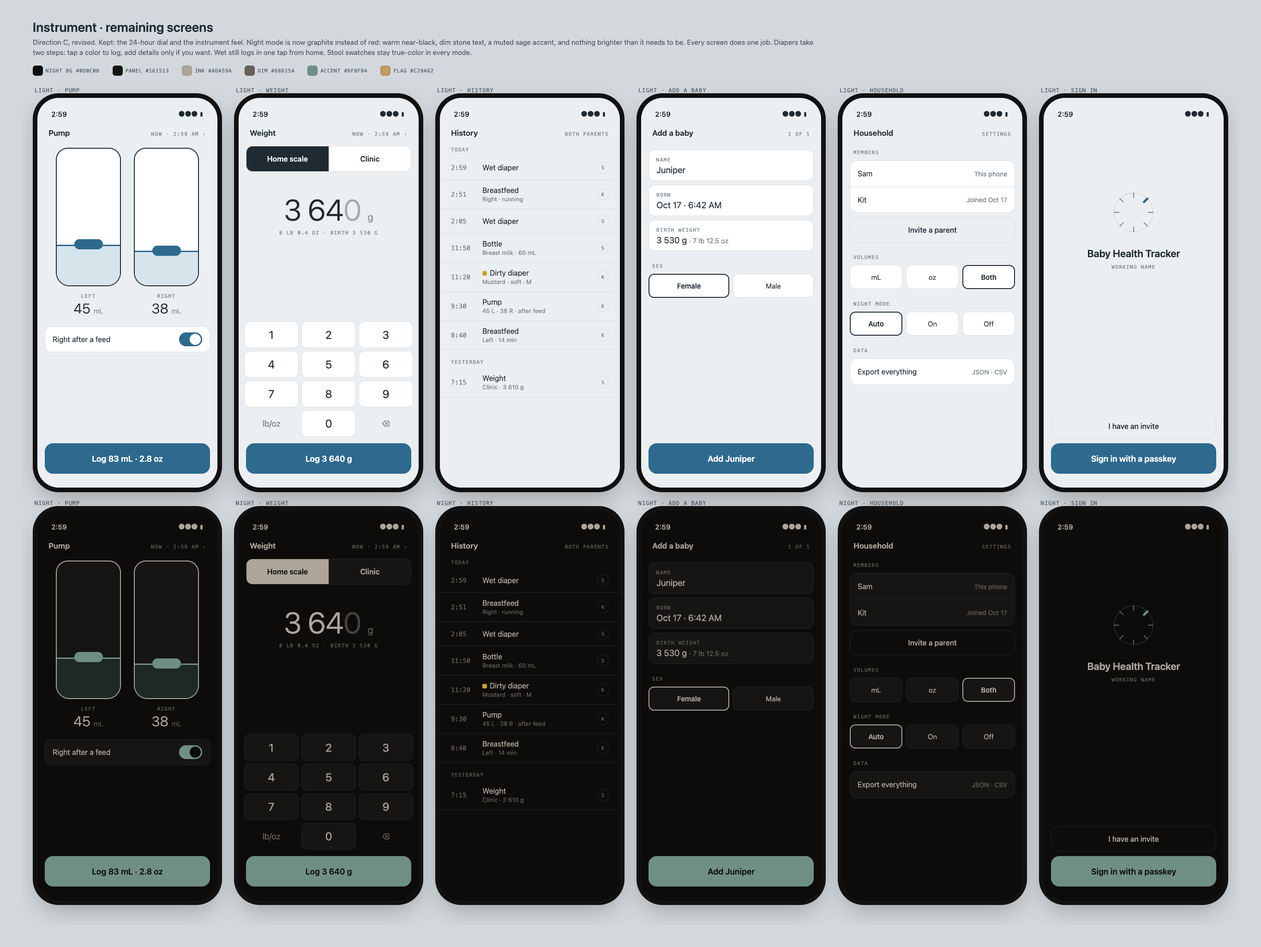
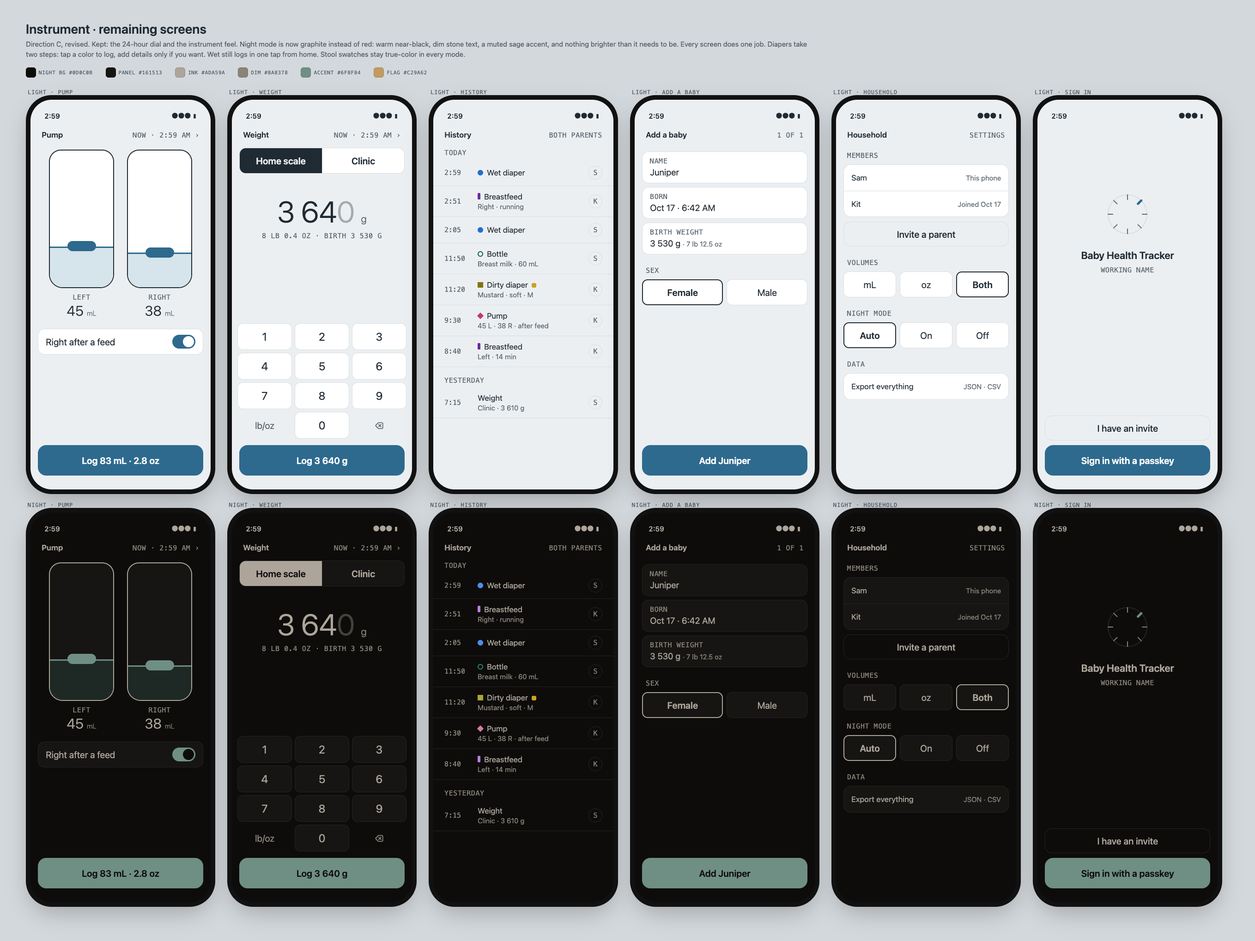
docs/design: glanceable Home, event colours and type sizes (#20)
- Each event type gets a saturated colour and its own shape (feed bar,
  bottle ring, wet dot, dirty square, pump diamond) on the dial, the
  legend, the quick-log keys and History. Night colours stay under the
  night ink's luminance and are never fills.
- Quick-log keys: coloured outlines, time since the last log, and the
  last side for Feed and Pump. Feed is the tall key; Wet is still 1 tap.
- App-wide type floor: buttons 20 px, body 17 px, secondary 15 px.
- dim raised to pass 4.5:1 for text (was 3.84 light, 3.03 night).
- Hand-computed contrast and a deuteranopia board (?cvd=deut).

diff --git a/docs/design/direction.html b/docs/design/direction.html
@@ -14,11 +14,11 @@ body{background:#D3D8DC;font-family:-apple-system,system-ui,sans-serif;padding:4
 .phone{width:390px;height:844px;border-radius:46px;overflow:hidden;position:relative;box-shadow:0 0 0 10px #111,0 20px 50px rgba(0,0,0,.25);margin:10px;background:var(--bg);color:var(--ink)}
 
 /* Tokens. Light is unchanged from C. Night is "graphite": warm near-black, dim stone ink, muted sage accent. No red. */
-.light{--bg:#ECEFF1;--panel:#FFFFFF;--ink:#1F2A33;--dim:#77848E;--line:#D9DEE2;--acc:#2E6A8E;--accInk:#FFFFFF;--band:#D6E4EC;--flag:#A8552F;--flagSoft:#F7EBE3;--well:#FFFFFF}
-.night{--bg:#0D0C0B;--panel:#161513;--ink:#ADA59A;--dim:#68625A;--line:#252320;--acc:#6F8F84;--accInk:#0D0C0B;--band:#1E2925;--flag:#C29A62;--flagSoft:#1B1712;--well:#1C1A17}
+.light{--feed:#6E2A9C;--bottle:#08664C;--wet:#1F6FD6;--dirty:#7F7410;--pump:#C2367A;--bg:#ECEFF1;--panel:#FFFFFF;--ink:#1F2A33;--dim:#5B6670;--line:#D9DEE2;--acc:#2E6A8E;--accInk:#FFFFFF;--band:#D6E4EC;--flag:#A8552F;--flagSoft:#F7EBE3;--well:#FFFFFF}
+.night{--feed:#B880D8;--bottle:#25876B;--wet:#4C8EF0;--dirty:#ABA53A;--pump:#DA7AA0;--bg:#0D0C0B;--panel:#161513;--ink:#ADA59A;--dim:#8A8378;--line:#252320;--acc:#6F8F84;--accInk:#0D0C0B;--band:#1E2925;--flag:#C29A62;--flagSoft:#1B1712;--well:#1C1A17}
 
 .sb{height:50px;display:flex;justify-content:space-between;align-items:flex-end;padding:0 30px 6px;font:600 15px -apple-system,system-ui,sans-serif}
-.lab{font:500 11px ui-monospace,Menlo,monospace;letter-spacing:.12em;text-transform:uppercase;color:var(--dim)}
+.lab{font:500 15px ui-monospace,Menlo,monospace;letter-spacing:.04em;text-transform:uppercase;color:var(--dim)}
 .top{display:flex;justify-content:space-between;align-items:baseline;padding:16px 24px 0}
 .top b{font:600 17px -apple-system,system-ui,sans-serif}
 .num{font-variant-numeric:tabular-nums}
@@ -28,32 +28,43 @@ body{background:#D3D8DC;font-family:-apple-system,system-ui,sans-serif;padding:4
 .dial svg{position:absolute;inset:0}
 .center{position:absolute;inset:0;display:flex;flex-direction:column;align-items:center;justify-content:center}
 .center .v{font:300 60px/1 -apple-system,system-ui,sans-serif;letter-spacing:-.02em;font-variant-numeric:tabular-nums;margin:8px 0}
-.legend{display:flex;justify-content:center;gap:18px;margin-top:16px}
-.legend span{display:flex;align-items:center;gap:6px}
-.legend i{width:8px;height:8px;border-radius:50%;display:inline-block}
-.quiet{text-align:center;margin-top:18px;font-size:14px;color:var(--dim)}
+.legend{display:flex;justify-content:center;gap:18px;margin-top:14px;font:400 15px -apple-system,system-ui,sans-serif;color:var(--dim)}
+.legend b{color:var(--ink);font-weight:600;font-variant-numeric:tabular-nums}
+.legend span{display:flex;align-items:center;gap:6px;white-space:nowrap}
+.legend i{width:12px;height:12px;display:inline-block}
+.quiet{text-align:center;margin-top:18px;font-size:17px;color:var(--dim)}
 .quiet b{color:var(--ink);font-weight:500}
-.chips{position:absolute;left:12px;right:12px;bottom:166px;display:flex;gap:6px}
-.chips div{flex:1;height:40px;border-radius:12px;border:1px solid var(--line);display:flex;align-items:center;justify-content:center;font-size:14px;color:var(--dim)}
-.rail{position:absolute;left:0;right:0;bottom:0;padding:10px 12px 30px;display:grid;grid-template-columns:repeat(4,1fr);gap:6px;background:var(--bg)}
-.rail div{height:112px;border-radius:16px;background:var(--panel);border:1px solid var(--line);display:flex;flex-direction:column;justify-content:flex-end;padding:12px 10px;font:600 16px -apple-system,system-ui,sans-serif}
-.rail small{font:400 10px ui-monospace,Menlo,monospace;color:var(--dim);margin-top:4px;letter-spacing:.04em}
-.rail .run{background:var(--acc);color:var(--accInk);border-color:var(--acc)}
-.rail .run small{color:var(--accInk);opacity:.7}
-.toast{position:absolute;left:16px;right:16px;border:1px solid var(--line);border-radius:12px;padding:12px 14px;display:flex;justify-content:space-between;font-size:14px;background:var(--panel)}
+.chips{position:absolute;left:12px;right:12px;bottom:236px;display:flex;gap:6px}
+.chips div{flex:1;height:48px;border-radius:12px;border:1px solid var(--line);display:flex;align-items:center;justify-content:center;font-size:17px;color:var(--ink)}
+.rail{position:absolute;left:0;right:0;bottom:0;padding:10px 12px 30px;display:grid;grid-template-columns:repeat(3,minmax(0,1fr));grid-template-rows:88px 88px;gap:8px;background:var(--bg)}
+.rail>div{--ev:var(--line);border-radius:16px;background:var(--panel);border:2px solid var(--ev);display:flex;flex-direction:column;justify-content:flex-end;padding:10px 12px;font:600 20px/1.1 -apple-system,system-ui,sans-serif}
+.rail .tall{grid-row:span 2}
+.rail b{display:flex;align-items:center;gap:8px;font-weight:600}
+.rail small{white-space:nowrap;font:400 15px/1.25 -apple-system,system-ui,sans-serif;color:var(--dim);margin-top:4px;font-variant-numeric:tabular-nums}
+.rail small em{font-style:normal;color:var(--ink)}
+.rail .run{border-width:3px;background:color-mix(in srgb,var(--ev) 16%,var(--panel))}
+.rail .run small{color:var(--ink)}
+.rail .run .clock{font:300 34px/1 -apple-system,system-ui,sans-serif;font-variant-numeric:tabular-nums;margin:6px 0 2px}
+.g{display:inline-block;width:12px;height:12px;flex:none}
+.g.g-feed{background:var(--feed);border-radius:2px;width:6px;height:14px}
+.g.g-bottle{border:2.5px solid var(--bottle);border-radius:50%}
+.g.g-wet{background:var(--wet);border-radius:50%}
+.g.g-dirty{background:var(--dirty)}
+.g.g-pump{background:var(--pump);transform:rotate(45deg) scale(.85)}
+.toast{position:absolute;left:16px;right:16px;border:1px solid var(--line);border-radius:12px;padding:12px 14px;display:flex;justify-content:space-between;font-size:17px;background:var(--panel)}
 .toast b{font-weight:600}
 .toast .acts{display:flex;gap:18px}
 
 /* shared controls */
 .seg{display:flex;margin:18px 16px 0;border-radius:14px;background:var(--panel);border:1px solid var(--line);overflow:hidden}
-.seg div{flex:1;height:54px;display:flex;align-items:center;justify-content:center;font:600 16px -apple-system,system-ui,sans-serif}
+.seg div{flex:1;height:54px;display:flex;align-items:center;justify-content:center;font:600 20px -apple-system,system-ui,sans-serif}
 .seg div+div{border-left:1px solid var(--line)}
 .seg .on{background:var(--ink);color:var(--bg)}
-.go{position:absolute;left:16px;right:16px;bottom:30px;height:66px;border-radius:18px;background:var(--acc);color:var(--accInk);display:flex;align-items:center;justify-content:center;font:600 18px -apple-system,system-ui,sans-serif}
-.go2{position:absolute;left:16px;right:16px;bottom:106px;height:54px;border-radius:16px;border:1px solid var(--line);display:flex;align-items:center;justify-content:center;font:500 16px -apple-system,system-ui,sans-serif}
+.go{position:absolute;left:16px;right:16px;bottom:30px;height:66px;border-radius:18px;background:var(--acc);color:var(--accInk);display:flex;align-items:center;justify-content:center;font:600 20px -apple-system,system-ui,sans-serif}
+.go2{position:absolute;left:16px;right:16px;bottom:106px;height:54px;border-radius:16px;border:1px solid var(--line);display:flex;align-items:center;justify-content:center;font:500 20px -apple-system,system-ui,sans-serif}
 .sec{margin:26px 24px 10px}
 .opts{display:grid;gap:8px;margin:0 16px}
-.opts div{height:52px;border-radius:12px;border:1px solid var(--line);background:var(--panel);display:flex;align-items:center;justify-content:center;font-size:15px}
+.opts div{height:56px;border-radius:12px;border:1px solid var(--line);background:var(--panel);display:flex;align-items:center;justify-content:center;font-size:20px}
 .opts .on{border:2px solid var(--ink);font-weight:600}
 .steps{display:flex;gap:6px;margin:14px 24px 0}
 .steps i{flex:1;height:3px;border-radius:2px;background:var(--line)}
@@ -62,27 +73,27 @@ body{background:#D3D8DC;font-family:-apple-system,system-ui,sans-serif;padding:4
 /* diaper */
 .well{margin:14px 16px 0;border-radius:18px;padding:14px;background:var(--well);border:1px solid var(--line)}
 .grid{display:grid;grid-template-columns:repeat(3,1fr);gap:8px}
-.tile{height:84px;border-radius:12px;position:relative;padding:8px 10px;font:500 12px -apple-system,system-ui,sans-serif;display:flex;align-items:flex-end;color:rgba(0,0,0,.66)}
+.tile{height:84px;border-radius:12px;position:relative;padding:8px 10px;font:500 15px/1.1 -apple-system,system-ui,sans-serif;display:flex;align-items:flex-end;color:rgba(0,0,0,.66)}
 .tile.dk{color:rgba(255,255,255,.82)}
 .tile.sm{height:58px}
-.tile.fl::after{content:"!";position:absolute;top:6px;right:9px;font:700 12px ui-monospace,Menlo,monospace}
+.tile.fl::after{content:"!";position:absolute;top:6px;right:9px;font:700 15px ui-monospace,Menlo,monospace}
 .flagnote{margin:16px 2px 8px;color:var(--flag)}
-.toggle{display:flex;justify-content:space-between;align-items:center;margin:16px 16px 0;padding:0 16px;height:56px;border-radius:14px;background:var(--panel);border:1px solid var(--line);font-size:16px}
+.toggle{display:flex;justify-content:space-between;align-items:center;margin:16px 16px 0;padding:0 16px;height:56px;border-radius:14px;background:var(--panel);border:1px solid var(--line);font-size:20px}
 .sw{width:50px;height:30px;border-radius:15px;background:var(--line);position:relative}
 .sw::after{content:"";position:absolute;top:3px;left:3px;width:24px;height:24px;border-radius:50%;background:var(--bg)}
 .sw.on{background:var(--acc)}.sw.on::after{left:23px;background:var(--accInk)}
 .hint{position:absolute;left:0;right:0;bottom:40px;text-align:center}
 .done{display:flex;align-items:center;gap:12px;margin:18px 16px 0;padding:14px 16px;border-radius:14px;background:var(--panel);border:1px solid var(--line)}
 .done .chip{width:34px;height:34px;border-radius:8px}
-.done div{flex:1;font-size:15px}
-.done small{display:block;color:var(--dim);font-size:13px;margin-top:2px}
+.done div{flex:1;font-size:17px}
+.done small{display:block;color:var(--dim);font-size:15px;margin-top:2px}
 
 /* bottle + pump */
 .bottle{position:relative;margin:22px 16px 0;display:grid;grid-template-columns:1fr 130px 1fr;gap:12px}
 .scale{position:relative}
-.scale div{position:absolute;font:500 13px ui-monospace,Menlo,monospace;color:var(--dim);transform:translateY(-50%)}
+.scale div{position:absolute;font:500 15px ui-monospace,Menlo,monospace;color:var(--dim);transform:translateY(-50%)}
 .scale.l div{right:0}.scale.r div{left:0}
-.scale .hi{color:var(--ink);font-weight:700;font-size:16px}
+.scale .hi{color:var(--ink);font-weight:700;font-size:17px}
 .vessel{position:relative;border:2px solid var(--ink);border-radius:26px 26px 30px 30px;overflow:hidden;background:var(--panel)}
 .fill{position:absolute;left:0;right:0;bottom:0;background:var(--band)}
 .fill::before{content:"";position:absolute;left:0;right:0;top:0;height:3px;background:var(--acc)}
@@ -101,49 +112,49 @@ body{background:#D3D8DC;font-family:-apple-system,system-ui,sans-serif;padding:4
 .sides{display:grid;grid-template-columns:1fr 1fr;gap:10px;margin:56px 16px 0}
 .sides div{height:120px;border-radius:18px;border:1px solid var(--line);background:var(--panel);display:flex;flex-direction:column;align-items:center;justify-content:center;gap:6px;font:600 20px -apple-system,system-ui,sans-serif}
 .sides .on{border:2px solid var(--acc)}
-.sides small{font:400 13px ui-monospace,Menlo,monospace;color:var(--dim)}
+.sides small{font:400 15px ui-monospace,Menlo,monospace;color:var(--dim)}
 
 /* readings */
 .verdict{margin:18px 16px 0;border-radius:18px;padding:18px;background:var(--panel);border:1px solid var(--line)}
 .verdict h3{font:600 20px/1.25 -apple-system,system-ui,sans-serif;margin:8px 0 4px}
-.verdict p{font-size:14px;color:var(--dim)}
+.verdict p{font-size:17px;color:var(--dim)}
 .verdict.flag{background:var(--flagSoft);border:1.5px solid var(--flag)}
 .verdict.flag .lab{color:var(--flag)}
-.verdict .more{display:flex;justify-content:space-between;margin-top:14px;padding-top:12px;border-top:1px solid var(--line);font-size:15px;font-weight:600}
+.verdict .more{display:flex;justify-content:space-between;margin-top:14px;padding-top:12px;border-top:1px solid var(--line);font-size:17px;font-weight:600}
 .verdict.flag .more{border-top-color:color-mix(in srgb,var(--flag) 35%,transparent)}
 .gauge{margin:10px 16px 0;padding:16px 18px;border-radius:16px;background:var(--panel);border:1px solid var(--line)}
 .gauge .r{display:flex;justify-content:space-between;align-items:baseline}
-.gauge .k{font:600 15px -apple-system,system-ui,sans-serif}
-.gauge .v{font:500 15px ui-monospace,Menlo,monospace}
+.gauge .k{font:600 17px -apple-system,system-ui,sans-serif}
+.gauge .v{font:500 17px ui-monospace,Menlo,monospace}
 .track{position:relative;height:26px;margin-top:12px}
 .track .base{position:absolute;left:0;right:0;top:12px;height:2px;background:var(--line)}
 .track .band{position:absolute;top:6px;height:14px;background:var(--band);border-radius:3px}
 .track .pt{position:absolute;top:3px;width:4px;height:20px;background:var(--ink);border-radius:2px;margin-left:-2px}
 
 /* why */
-.prose{margin:22px 24px 0;font-size:16px;line-height:1.5}
+.prose{margin:22px 24px 0;font-size:17px;line-height:1.5}
 .prose h2{font:600 24px/1.2 -apple-system,system-ui,sans-serif;margin:8px 0 12px}
 .prose p{margin-bottom:12px}
-.src{margin:16px 16px 0;padding:14px 16px;border-radius:14px;border:1px dashed var(--line);font-size:13px;line-height:1.45;color:var(--dim)}
+.src{margin:16px 16px 0;padding:14px 16px;border-radius:14px;border:1px dashed var(--line);font-size:15px;line-height:1.45;color:var(--dim)}
 
 /* history + settings + forms */
 .day{margin:20px 24px 6px}
-.ev{display:grid;grid-template-columns:58px 1fr 26px;align-items:center;gap:10px;padding:13px 24px;border-bottom:1px solid var(--line)}
-.ev .t{font:500 14px ui-monospace,Menlo,monospace;color:var(--dim)}
-.ev .k{font-size:16px}
-.ev .k small{display:block;color:var(--dim);font-size:13px;margin-top:2px}
-.ev .who{width:26px;height:26px;border-radius:50%;border:1px solid var(--line);display:flex;align-items:center;justify-content:center;font:500 11px ui-monospace,Menlo,monospace;color:var(--dim)}
+.ev{display:grid;grid-template-columns:62px 1fr 30px;align-items:center;gap:10px;padding:13px 24px;border-bottom:1px solid var(--line)}
+.ev .t{font:500 15px ui-monospace,Menlo,monospace;color:var(--dim)}
+.ev .k{font-size:17px}
+.ev .k small{display:block;color:var(--dim);font-size:15px;margin-top:2px}
+.ev .who{width:30px;height:30px;border-radius:50%;border:1px solid var(--line);display:flex;align-items:center;justify-content:center;font:500 15px ui-monospace,Menlo,monospace;color:var(--dim)}
 .ev .dot{display:inline-block;width:10px;height:10px;border-radius:3px;margin-right:6px;vertical-align:0}
 .list{margin:0 16px;border-radius:16px;background:var(--panel);border:1px solid var(--line)}
-.list div{display:flex;justify-content:space-between;align-items:center;padding:0 16px;height:56px;font-size:16px}
+.list div{display:flex;justify-content:space-between;align-items:center;padding:0 16px;height:56px;font-size:17px}
 .list div+div{border-top:1px solid var(--line)}
-.list span{color:var(--dim);font-size:14px}
+.list span{color:var(--dim);font-size:15px}
 .field{margin:0 16px 0;padding:10px 16px 12px;border-radius:14px;background:var(--panel);border:1px solid var(--line)}
 .field b{display:block;font:400 19px -apple-system,system-ui,sans-serif;margin-top:4px}
 .field+.field{margin-top:8px}
 .keys{position:absolute;left:12px;right:12px;bottom:110px;display:grid;grid-template-columns:repeat(3,1fr);gap:6px}
 .keys div{height:58px;border-radius:12px;background:var(--panel);border:1px solid var(--line);display:flex;align-items:center;justify-content:center;font:400 24px -apple-system,system-ui,sans-serif}
-.keys .ghost{background:none;border:none;color:var(--dim);font-size:18px}
+.keys .ghost{background:none;border:none;color:var(--dim);font-size:20px}
 .mark{display:flex;justify-content:center;margin-top:150px}
 </style></head><body>
 <div id="root"></div>
@@ -154,26 +165,38 @@ const sb=`<div class="sb"><span class="num">2:59</span><span>●●● ▮</span
 const hdr=(t,r)=>`<div class="top"><b>${t}</b><span class="lab">${r}</span></div>`;
 
 function pt(h,r,c=150){const a=(h/24)*2*Math.PI-Math.PI/2;return[c+r*Math.cos(a),c+r*Math.sin(a)]}
-function dialSvg(){
-  const feeds=[2.85,23.83,20.5,17.3,14.6,11.9,8.7,5.6,0.2], wets=[2.08,22.6,19.1,15.8,12.4,9.2,6.1], dirty=[23.33,18.1,13.2,7.4];
+function dialSvg(running){
+  const feeds=[23.83,20.5,17.3,14.6,8.7,5.6,0.2], bottles=[11.9,2.05], wets=[2.08,22.6,19.1,15.8,12.4,9.2,6.1], dirty=[23.33,18.1,13.2,7.4];
+  if(!running) feeds.unshift(1.67);
   const tick=(h,r1,r2,c,w)=>{const[a,b]=pt(h,r1),[x,y]=pt(h,r2);return`<line x1="${a}" y1="${b}" x2="${x}" y2="${y}" stroke="${c}" stroke-width="${w}" stroke-linecap="round"/>`};
-  let s=`<circle cx="150" cy="150" r="140" fill="none" stroke="var(--line)" stroke-width="1.5"/>`;
-  [0,6,12,18].forEach(h=>{s+=tick(h,140,131,'var(--dim)',1.5);const[x,y]=pt(h,121);s+=`<text x="${x}" y="${y+4}" text-anchor="middle" font-family="ui-monospace,Menlo" font-size="10" fill="var(--dim)">${h}</text>`});
-  feeds.forEach(h=>s+=tick(h,140,128,'var(--acc)',4));
-  const[a1,b1]=pt(2.85,134),[a2,b2]=pt(2.98,134);
-  s+=`<path d="M${a1} ${b1} A134 134 0 0 1 ${a2} ${b2}" stroke="var(--acc)" stroke-width="12" fill="none" stroke-linecap="round"/>`;
-  wets.forEach(h=>{const[x,y]=pt(h,104);s+=`<circle cx="${x}" cy="${y}" r="3" fill="var(--ink)"/>`});
-  dirty.forEach(h=>{const[x,y]=pt(h,104);s+=`<rect x="${x-3.5}" y="${y-3.5}" width="7" height="7" fill="none" stroke="var(--ink)" stroke-width="1.6"/>`});
+  let s=`<circle cx="150" cy="150" r="140" fill="none" stroke="var(--line)" stroke-width="1.5"/><circle cx="150" cy="150" r="99" fill="none" stroke="var(--line)" stroke-width="1" stroke-dasharray="2 5"/>`;
+  [0,6,12,18].forEach(h=>{s+=tick(h,140,131,'var(--dim)',1.5);const[x,y]=pt(h,121);s+=`<text x="${x}" y="${y+5}" text-anchor="middle" font-family="ui-monospace,Menlo" font-size="15" fill="var(--dim)">${h}</text>`});
+  feeds.forEach(h=>s+=tick(h,141,126,'var(--feed)',6));
+  bottles.forEach(h=>{const[x,y]=pt(h,134);s+=`<circle cx="${x}" cy="${y}" r="6" fill="var(--panel)" stroke="var(--bottle)" stroke-width="3"/>`});
+  if(running){const[a1,b1]=pt(2.85,134),[a2,b2]=pt(2.98,134);s+=`<path d="M${a1} ${b1} A134 134 0 0 1 ${a2} ${b2}" stroke="var(--feed)" stroke-width="14" fill="none" stroke-linecap="round"/>`}
+  wets.forEach(h=>{const[x,y]=pt(h,99);s+=`<circle cx="${x}" cy="${y}" r="5.5" fill="var(--wet)"/>`});
+  dirty.forEach(h=>{const[x,y]=pt(h,99);s+=`<rect x="${x-5.5}" y="${y-5.5}" width="11" height="11" rx="1" fill="var(--dirty)"/>`});
   return `<svg viewBox="0 0 300 300">${s}</svg>`;
 }
+const legend=(f)=>`<div class="legend"><span><i class="g g-feed"></i>Feed <b>${f}</b></span><span><i class="g g-bottle"></i>Bottle <b>2</b></span><span><i class="g g-wet"></i>Wet <b>7</b></span><span><i class="g g-dirty"></i>Dirty <b>4</b></span></div>`;
+const btn=(ev,label,lines,cls='')=>`<div class="${cls}" style="--ev:var(--${ev})"><b><i class="g g-${ev}"></i>${label}</b>${lines.map(l=>`<small>${l}</small>`).join('')}</div>`;
+function rail(running){return `<div class="rail">${running
+  ?`<div class="tall run" style="--ev:var(--feed)"><b><i class="g g-feed"></i>Stop</b><span class="clock">08:42</span><small><em>Right</em> side</small></div>`
+  :btn('feed','Feed',['<em>1h 19m</em> ago','at 1:40 AM','<em>Left</em> side'],'tall')}
+  ${btn('wet','Wet',running?['<em>Just now</em>','at 2:59 AM']:['<em>54m</em> ago','at 2:05 AM'])}${btn('dirty','Dirty',['<em>3h 10m</em> ago','at 11:49 PM'])}
+  ${btn('bottle','Bottle',['<em>2h 50m</em> ago','60 mL'])}${btn('pump','Pump',['<em>5h 4m</em> ago','<em>Both</em> sides'])}</div>`}
 const S={
 home:()=>`${sb}${hdr('Juniper','Day 12 · last 24 h')}
-<div class="dial">${dialSvg()}<div class="center"><span class="lab">Feeding · right</span><span class="v">08:42</span><span class="lab">since 2:51 AM</span></div></div>
-<div class="legend lab"><span><i style="background:var(--acc)"></i>Feed 9</span><span><i style="background:var(--ink)"></i>Wet 7</span><span><i style="border:1.6px solid var(--ink);border-radius:0;width:6px;height:6px"></i>Dirty 4</span></div>
-<div class="quiet">Last diaper <b class="num">54 min</b> ago</div>
-<div class="toast" style="bottom:220px"><span>Wet logged · 2:59 AM</span><b>Undo</b></div>
-<div class="chips"><div>Pump</div><div>Weight</div><div>History</div><div>Readings</div></div>
-<div class="rail"><div class="run">Stop<small>R · 08:42</small></div><div>Wet<small>1 TAP</small></div><div>Dirty<small>COLOR</small></div><div>Bottle<small>60 ML</small></div></div>`,
+<div class="dial">${dialSvg(false)}<div class="center"><span class="lab">Since last feed</span><span class="v">1:19</span><span class="lab">left side</span></div></div>
+${legend(9)}
+<div class="chips"><div>Weight</div><div>History</div><div>Readings</div></div>
+${rail(false)}`,
+homeFeeding:()=>`${sb}${hdr('Juniper','Day 12 · last 24 h')}
+<div class="dial">${dialSvg(true)}<div class="center"><span class="lab">Feeding · right</span><span class="v">08:42</span><span class="lab">since 2:51 AM</span></div></div>
+${legend(9)}
+<div class="toast" style="bottom:294px"><span>Wet logged · 2:59 AM</span><b>Undo</b></div>
+<div class="chips"><div>Weight</div><div>History</div><div>Readings</div></div>
+${rail(true)}`,
 
 feed:()=>`${sb}${hdr('Breastfeed','Started 2:51 AM ›')}
 <div class="big"><span class="lab">Right side</span><div class="v">08:42</div><span class="lab">Total 08:42 · last feed left</span></div>
@@ -237,7 +260,7 @@ weight:()=>`${sb}${hdr('Weight','Now · 2:59 AM ›')}
 
 history:()=>`${sb}${hdr('History','Both parents')}
 <div class="day lab">Today</div>
-${[["2:59","Wet diaper","","S"],["2:51","Breastfeed","Right · running","K"],["2:05","Wet diaper","","S"],["11:50","Bottle","Breast milk · 60 mL","S"],["11:20","Dirty diaper","Mustard · soft · M","K","#C9A227"],["9:30","Pump","45 L · 38 R · after feed","K"],["8:40","Breastfeed","Left · 14 min","K"]].map(([t,k,d,w,c])=>`<div class="ev"><span class="t">${t}</span><span class="k">${c?`<i class="dot" style="background:${c}"></i>`:''}${k}${d?`<small>${d}</small>`:''}</span><span class="who">${w}</span></div>`).join('')}
+${[["2:59","wet","Wet diaper","","S"],["2:51","feed","Breastfeed","Right · running","K"],["2:05","wet","Wet diaper","","S"],["11:50","bottle","Bottle","Breast milk · 60 mL","S"],["11:20","dirty","Dirty diaper","Mustard · soft · M","K","#C9A227"],["9:30","pump","Pump","45 L · 38 R · after feed","K"],["8:40","feed","Breastfeed","Left · 14 min","K"]].map(([t,g,k,d,w,c])=>`<div class="ev"><span class="t">${t}</span><span class="k"><i class="g g-${g}" style="margin-right:8px"></i>${k}${c?` <i class="dot" style="background:${c};margin:0 0 0 4px"></i>`:''}${d?`<small>${d}</small>`:''}</span><span class="who">${w}</span></div>`).join('')}
 <div class="day lab">Yesterday</div>
 <div class="ev"><span class="t">7:15</span><span class="k">Weight<small>Clinic · 3 610 g</small></span><span class="who">S</span></div>`,
 
@@ -262,17 +285,22 @@ signin:()=>`${sb}
 <div class="go2">I have an invite</div>
 <div class="go">Sign in with a passkey</div>`,
 };
-function gauges(){return [["Wet diapers","7",[50,100],72,"6+ from day 5"],["Dirty diapers","4",[38,100],55,"3+ in week 2"],["Weight vs birth","+3.1%",[40,80],58,"Back to birth weight by day 7–14"]].map(([k,v,[b1,b2],p,n])=>`<div class="gauge"><div class="r"><span class="k">${k}</span><span class="v">${v}</span></div><div class="track"><div class="base"></div><div class="band" style="left:${b1}%;right:${100-b2}%"></div><div class="pt" style="left:${p}%"></div></div><div class="lab" style="margin-top:6px;letter-spacing:.04em;text-transform:none;font-size:12px">${n}</div></div>`).join('')
-+`<div class="gauge"><div class="r"><span class="k">Recorded bottle intake</span><span class="v">≈410 mL</span></div><div style="margin-top:10px;font-size:15px;font-weight:500">Not enough information to assess total intake</div><div class="lab" style="margin-top:4px;letter-spacing:.04em;text-transform:none;font-size:12px">≈410 mL recorded from bottles. 9 breastfeeds not measured.</div></div>`}
+function gauges(){return [["Wet diapers","7",[50,100],72,"6+ from day 5"],["Dirty diapers","4",[38,100],55,"3+ in week 2"],["Weight vs birth","+3.1%",[40,80],58,"Back to birth weight by day 7–14"]].map(([k,v,[b1,b2],p,n])=>`<div class="gauge"><div class="r"><span class="k">${k}</span><span class="v">${v}</span></div><div class="track"><div class="base"></div><div class="band" style="left:${b1}%;right:${100-b2}%"></div><div class="pt" style="left:${p}%"></div></div><div class="lab" style="margin-top:6px;letter-spacing:.02em;text-transform:none;font-size:15px">${n}</div></div>`).join('')
++`<div class="gauge"><div class="r"><span class="k">Recorded bottle intake</span><span class="v">≈410 mL</span></div><div style="margin-top:10px;font-size:15px;font-weight:500">Not enough information to assess total intake</div><div class="lab" style="margin-top:4px;letter-spacing:.02em;text-transform:none;font-size:15px">≈410 mL recorded from bottles. 9 breastfeeds not measured.</div></div>`}
 
 const BOARDS={
+ home:{h:"Home · glanceable (#20)",s:"Owner feedback after real-phone use: the dial read as black and white, the labels were too small, and the buttons should say when each thing was last logged. Each event type now has its own saturated colour and its own shape (feed bar, bottle ring, wet dot, dirty square), so the dial still reads without colour. Night colours are outlines and marks, never fills, and none is brighter than the night text. Buttons carry a coloured outline, the time since the last log, and the last side for Feed and Pump. No text is under 15 px.",cols:[["Home · idle","home","home"],["Home · feeding","homeFeeding","homeFeeding"]]},
  core:{h:"Instrument · core screens",cols:[["Home · 24 h dial","home","home"],["Breastfeed timer","feed","feed"],["Diaper 1 · color","diaperColor","diaperColor"],["Diaper 2 · details","diaperDetails","diaperDetails"],["Bottle","bottle","bottle"],["Readings","readingsFlag","readingsOk"],["Why?","why","why"]]},
  rest:{h:"Instrument · remaining screens",cols:[["Pump","pump","pump"],["Weight","weight","weight"],["History","history","history"],["Add a baby","addBaby","addBaby"],["Household","settings","settings"],["Sign in","signin","signin"]]},
 };
-const which=new URLSearchParams(location.search).get('board')||'core', B=BOARDS[which];
-const pal=[["Night bg","#0D0C0B"],["Panel","#161513"],["Ink","#ADA59A"],["Dim","#68625A"],["Accent","#6F8F84"],["Flag","#C29A62"]];
+const Q=new URLSearchParams(location.search), which=Q.get('board')||'core', B=BOARDS[which];
+const pal=which=='home'
+ ?[["Feed","#6E2A9C","#B880D8"],["Bottle","#08664C","#25876B"],["Wet","#1F6FD6","#4C8EF0"],["Dirty","#7F7410","#ABA53A"],["Pump","#C2367A","#DA7AA0"]]
+ :[["Night bg","#0D0C0B"],["Panel","#161513"],["Ink","#ADA59A"],["Dim","#8A8378"],["Accent","#6F8F84"],["Flag","#C29A62"]];
+// ?cvd=deut previews the board through a deuteranopia simulation (Machado et al. 2009, severity 1, linear RGB).
+if(Q.get('cvd')=='deut'){document.body.insertAdjacentHTML('beforeend',`<svg width="0" height="0" style="position:absolute"><filter id="deut" color-interpolation-filters="linearRGB"><feColorMatrix type="matrix" values="0.367322 0.860646 -0.227968 0 0  0.280085 0.672501 0.047413 0 0  -0.011820 0.042940 0.968881 0 0  0 0 0 1 0"/></filter></svg>`);document.getElementById('root').style.filter='url(#deut)'}
 document.getElementById('root').innerHTML=`<div class="board-h">${B.h}</div>
-<div class="board-s">Direction C, revised. Kept: the 24-hour dial and the instrument feel. Night mode is now graphite instead of red: warm near-black, dim stone text, a muted sage accent, and nothing brighter than it needs to be. Every screen does one job. Diapers take two steps: tap a color to log, add details only if you want. Wet still logs in one tap from home. Stool swatches stay true-color in every mode.</div>
-<div class="palette">${pal.map(([n,c])=>`<div><i style="background:${c}"></i>${n} ${c}</div>`).join('')}</div>`+
+<div class="board-s">${B.s||`Direction C, revised. Kept: the 24-hour dial and the instrument feel. Night mode is now graphite instead of red: warm near-black, dim stone text, a muted sage accent, and nothing brighter than it needs to be. Every screen does one job. Diapers take two steps: tap a color to log, add details only if you want. Wet still logs in one tap from home. Stool swatches stay true-color in every mode.`}${Q.get('cvd')=='deut'?' <b>Deuteranopia simulation.</b>':''}</div>
+<div class="palette">${pal.map(([n,c,c2])=>`<div><i style="background:${c}"></i>${c2?`<i style="background:${c2}"></i>`:''}${n} ${c}${c2?` · ${c2}`:''}</div>`).join('')}</div>`+
 ['light','night'].map(m=>`<div class="row">${B.cols.map(([c,l,n])=>`<div><div class="cap">${m} · ${c}${l!==n&&m=='night'?' · all clear':l!==n?' · flag':''}</div><div class="phone ${m}">${S[m=='light'?l:n]()}</div></div>`).join('')}</div>`).join('');
 </script></body></html>

diff --git a/docs/design/README.md b/docs/design/README.md
@@ -7,6 +7,8 @@ This folder holds the merged direction. It is the reference for the #6 UI.
 - `direction.html`: static mockups of every v1 screen, light and night. Open
   `direction.html?board=core` or `?board=rest` in a browser.
 - `board-core.png`, `board-rest.png`: renders of the two boards.
+- `board-home.png`, `board-home-deut.png`: the glanceable Home (#20), and the
+  same board through a deuteranopia simulation (`?board=home&cvd=deut`).
 - `explorations/`: the three original directions (A Ledger, B Nest, C Darkroom),
   kept for the record.
 
@@ -15,13 +17,32 @@ These are mockups, not app code. All names and numbers are fake.
 ## Principles
 
 - **Instrument, not a diary.** Readings are drawn as ranges on a scale with a
-  pointer. Labels are small monospaced caps, and numbers use tabular figures.
+  pointer. Labels are monospaced caps, and numbers use tabular figures.
   Keep it subtle: no bevels, no fake chrome.
 - **One job per screen.** If a screen needs a second idea, it gets a second
   screen or an optional step.
 - **Thumb zone.** Primary actions sit at the bottom. Targets are at least 52 px
   tall, and the main action is 66 px.
 - **Undo, never confirm.** Every log shows a toast or a row with Undo.
+- **Readable at arm's length.** A tired parent holding a baby has to read it at
+  a glance (owner, #20). See Type sizes.
+
+## Type sizes
+
+This applies to every screen, not only Home (#20).
+
+| Text | Minimum |
+|---|---|
+| Button labels (quick-log keys, primary and secondary actions, segmented controls, options) | 20 px |
+| Body text, list rows, toasts, readings values | 17 px |
+| Secondary text (captions, monospaced labels, "last logged" lines, hints) | 15 px |
+
+- Nothing a parent has to read is smaller than 15 px. Phone OS chrome (the
+  status bar) is not ours.
+- Any text a parent has to read meets WCAG AA (4.5:1) on the surface it sits on.
+  That is why `dim` changed in #20: the old values were 3.84:1 (light) and
+  3.03:1 (night) on the panel.
+- Long lines may wrap, but a line must never truncate a number or a side.
 
 ## Tokens
 
@@ -30,7 +51,7 @@ These are mockups, not app code. All names and numbers are fake.
 | bg | `#ECEFF1` | `#0D0C0B` |
 | panel | `#FFFFFF` | `#161513` |
 | ink | `#1F2A33` | `#ADA59A` |
-| dim | `#77848E` | `#68625A` |
+| dim | `#5B6670` | `#8A8378` |
 | line | `#D9DEE2` | `#252320` |
 | accent | `#2E6A8E` | `#6F8F84` |
 | band (expected range) | `#D6E4EC` | `#1E2925` |
@@ -41,9 +62,75 @@ There is no red or amber tint, because red reads as an emergency in a medical
 app. Night text is a dim stone, never white, so the screen stays dim. The
 flag color is the only warm accent, and it appears only on a flag.
 
+### Event colours (#20)
+
+Each event type has its own colour and its own shape. The shape is the same on
+the dial, in the legend, on the quick-log key and in History, so the types stay
+apart without colour.
+
+| Event | Shape | Light | Night |
+|---|---|---|---|
+| Feed (breastfeed) | bar on the outer ring | `#6E2A9C` | `#B880D8` |
+| Bottle | hollow ring on the outer ring | `#08664C` | `#25876B` |
+| Wet | dot on the inner ring | `#1F6FD6` | `#4C8EF0` |
+| Dirty | square on the inner ring | `#7F7410` | `#ABA53A` |
+| Pump | diamond (keys and History; not on the dial) | `#C2367A` | `#DA7AA0` |
+
+- **Strokes, marks and outlines only.** Event colours are never used for text
+  and never fill a large area. The one exception is a running timer key, which
+  takes a 16% tint of its colour behind ink text.
+- **Night stays dim.** Every night event colour has a relative luminance at or
+  below 0.36, under the night ink (0.381). Nothing on Home is brighter than the
+  text already on it, and none of the colours is red.
+- **Contrast, computed by hand** (WCAG 2.x relative luminance; Lighthouse skips
+  gradients). Graphics need 3:1 (WCAG 1.4.11), and every pair passes on both
+  backgrounds:
+
+| Event | Light on bg | Light on panel | Night on bg | Night on panel |
+|---|---|---|---|---|
+| Feed | 7.35 | 8.49 | 6.62 | 6.18 |
+| Bottle | 6.03 | 6.96 | 4.43 | 4.13 |
+| Wet | 4.23 | 4.88 | 5.99 | 5.59 |
+| Dirty | 4.13 | 4.76 | 7.61 | 7.10 |
+| Pump | 4.43 | 5.12 | 6.77 | 6.32 |
+
+  Text: ink on panel is 14.61 (light) and 7.50 (night). The new `dim` is 5.87
+  and 4.86 on the panel, and 5.08 and 5.21 on the background. On the tinted
+  running key, text is ink: 11.15 (light) and 5.95 (night).
+- **Colour vision.** The palette was checked under a deuteranopia simulation
+  (Machado et al. 2009, severity 1). The closest pair is 0.089 apart in OKLab
+  (night feed and wet), against 0.047 for an Okabe-Ito-style set. Feed and wet
+  both look blue to a deuteranope, so they differ in lightness and shape (bar on
+  the outer ring, dot on the inner ring). Bottle and pump both look grey, but
+  pump is not on the dial and every key is labelled.
+- **Dirty and the flag.** The night dirty mustard and the night flag tan are
+  close in hue. The flag never appears on Home, and a flag always carries "!"
+  and its text, so colour alone never signals a flag.
+
 **Stool swatches are true-color in every mode.** They sit in their own well and
 never take the theme tint. The red-flag colors (pale yellow, clay, white, red)
 are grouped under "Consider talking to your pediatrician".
+
+## Home quick-log keys (#20)
+
+- **Layout.** Feed is the tall key on the left. Wet, Dirty, Bottle and Pump
+  share the other two columns. Weight, History and Readings move to the row
+  above. Wet is still one tap.
+- **Outline.** Each key has a 2 px outline in its event colour, in both themes.
+  A running feed key has a 3 px outline, the 16% tint, the live timer and the
+  side.
+- **Last logged.** Line one is the time since the last event of that type,
+  compact: "Just now" under 1 minute, then "54m ago", then "3h 10m ago". Over
+  24 h it is the date ("Oct 27"). Line two is the clock time ("at 11:49 PM"),
+  except:
+  - Feed has three lines: the time since, the clock time, and the last side
+    ("Left side"). The side is the side of the last breastfeed.
+  - Bottle shows the last amount ("60 mL").
+  - Pump shows the last side ("Left side", "Right side" or "Both sides").
+  - Nothing logged yet: "Not logged yet".
+- **Freshness.** The lines come from the event store, not a cache. They change
+  right after a log and right after Undo (the undone event no longer counts),
+  and the elapsed time ticks at least once a minute.
 
 ## Flows
 
